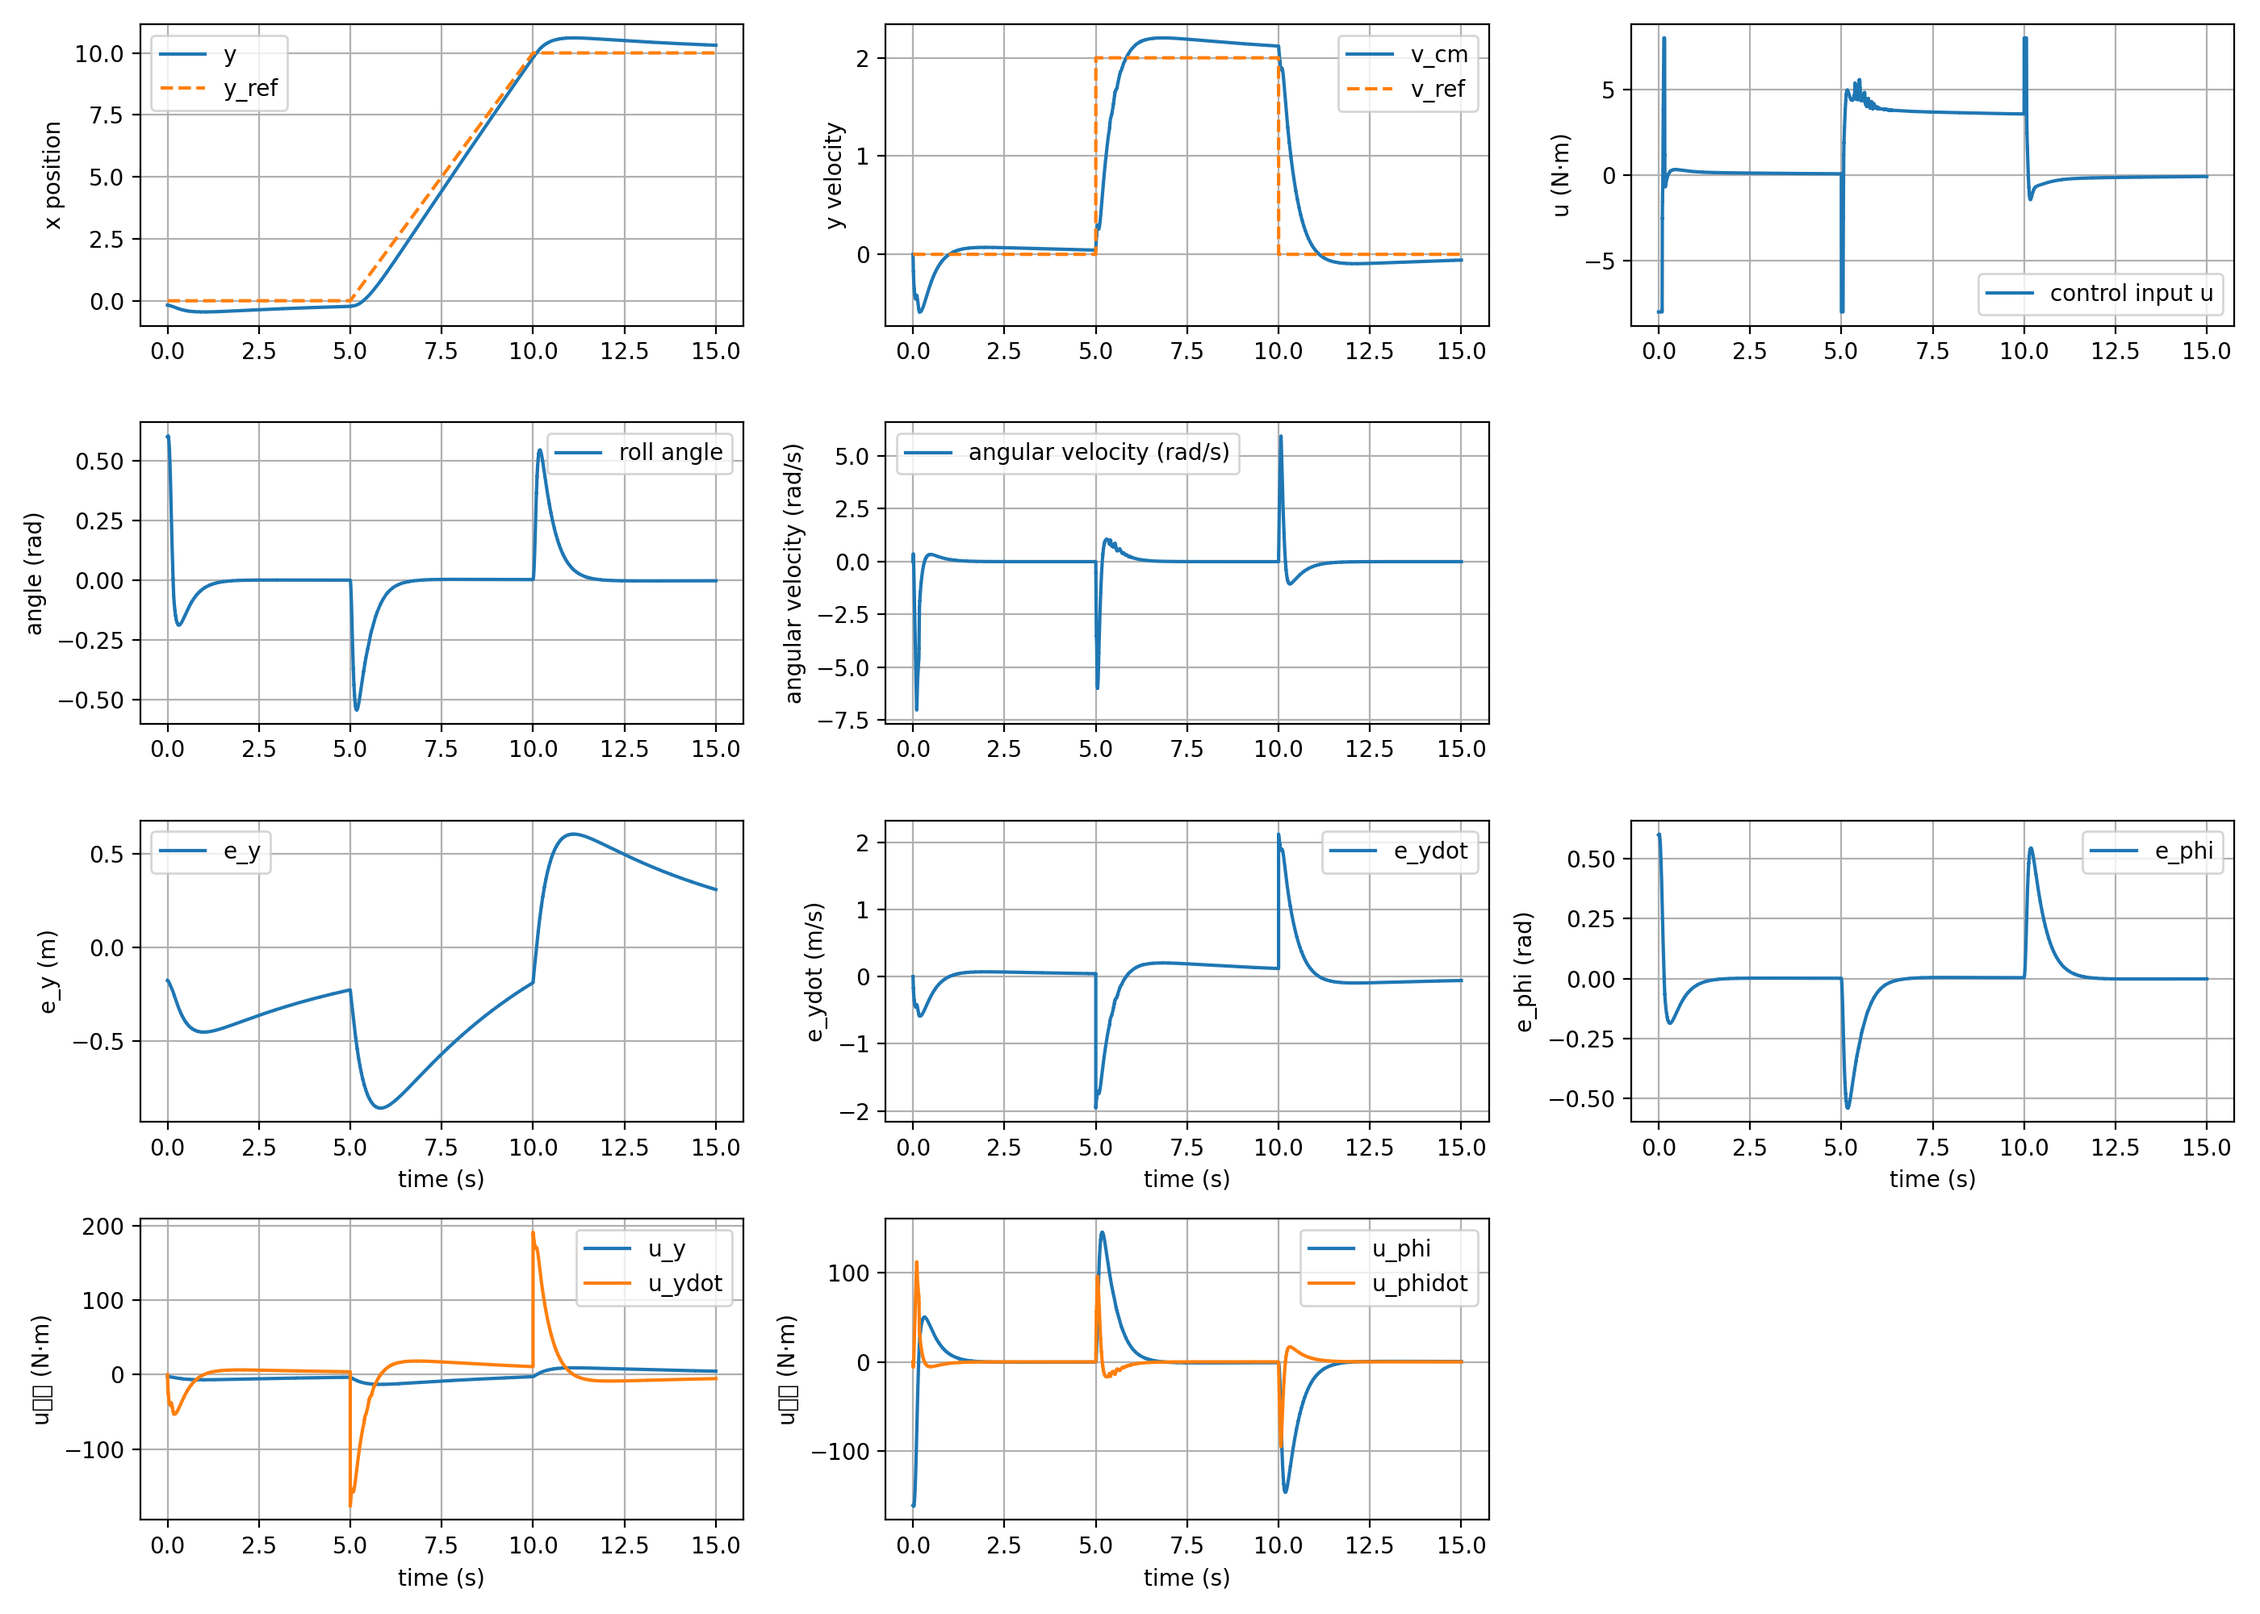
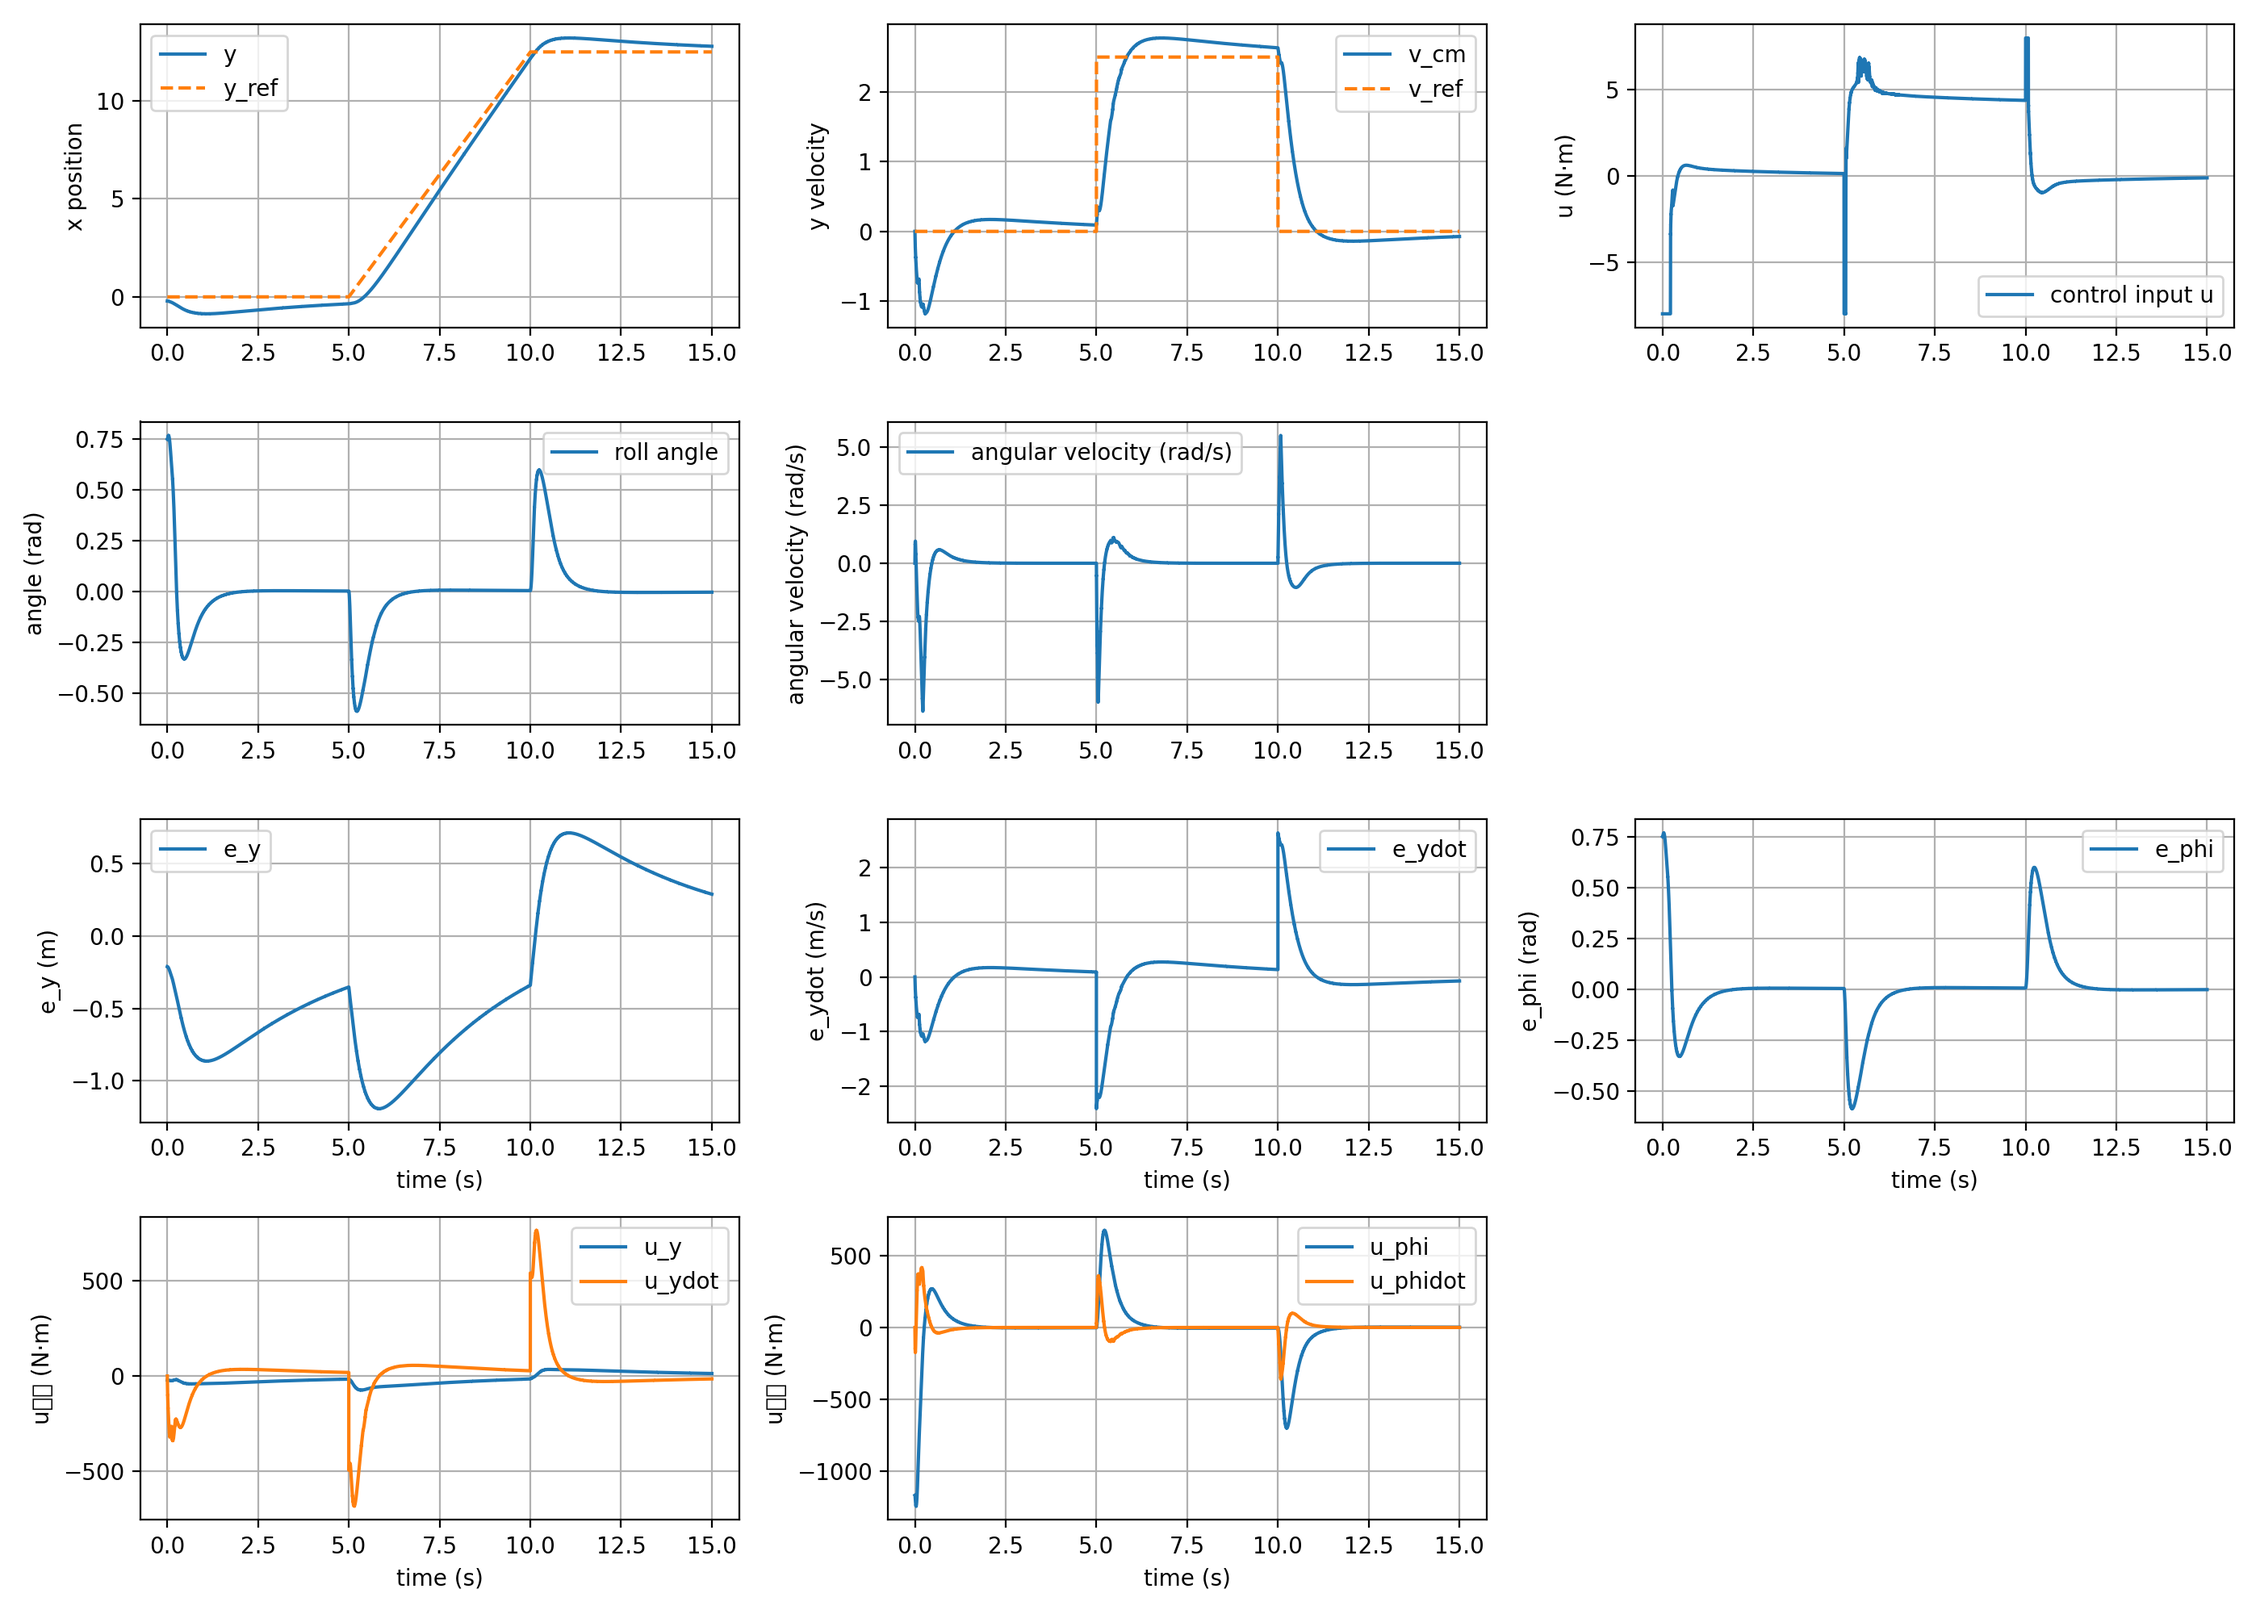
feat: 多点线性化

diff --git a/robot/lqr_roll2d.py b/robot/lqr_roll2d.py
@@ -6,8 +6,11 @@ import control  # LQR 工具
 import matplotlib  # 绘图配置
 import matplotlib.pyplot as plt  # 绘图
 from matplotlib import font_manager as fm  # 字体管理
-import scipy.linalg as la  # 线性代数
+import scipy.linalg  # 线性代数
+from scipy.interpolate import CubicSpline
 
+# 全局变量：用于存储拟合好的 LPV-LQR 插值器
+K_interpolator = None
 
 def setup_chinese_font():  # 设置中文字体
     candidates = [  # 候选字体
@@ -56,9 +59,9 @@ simend = 15.0  # 仿真总时间
 simspeed = 1.0  # 仿真速度
 settle_time = 0  # 初始稳定时间
 print_camera_config = 0  # 是否打印相机参数
-phi_init = 0.6# 初始小侧倾
+phi_init = 0.75  # 初始小侧倾
 move_start = 5.0  # 开始向 y 方向运动的时间
-vy_cmd = 2  # 目标 y 方向速度
+vy_cmd = 2.5  # 目标 y 方向速度
 vy_ramp_time = 0  # 速度爬坡时间
 move_end = 10.0  # 结束向 y 方向运动的时间 
 
@@ -238,6 +241,166 @@ def linearize_discrete_central(x_eq, u_eq, qpos_ref, qvel_ref, eps=None):
     return Ad, Bd
 
 
+def init_LPV_controller():  # 初始化控制器
+    global K_interpolator, x0, x0_joint, qpos0, qvel0, Q, R  # 使用全局变量
+    
+    while data.time < settle_time:  # 初始稳定
+        data.ctrl[aid_left] = 0.0  # 左轮无力矩
+        data.ctrl[aid_right] = 0.0  # 右轮无力矩
+        mj.mj_step(model, data)  # 仿真步进
+        
+    qpos0 = data.qpos.copy()  # 保存 qpos
+    qvel0 = data.qvel.copy()  # 保存 qvel
+    
+    x0 = get_state_from_data(data)  # 获取基准状态
+    x0[2] = 0.0  # 保证初始设定 roll 角为 0
+    
+    Q = np.diag([120000.0, 3000000.0, 120000.0, 220000.0])  # 进一步增大权重
+    R = np.diag([0.2])  # 减小R允许更大控制力
+    u0 = np.array([0.0], dtype=float)  # 平衡输入
+    
+    print("开始进行 LPV 多点线性化与插值拟合...")
+    
+    # 1. 定义 roll 角的采样网格 (例如从 -60度 到 +60度，采样 31 个点)
+    # 取决于你的需求，采样点越密拟合越好
+    roll_grid = np.linspace(-np.radians(60), np.radians(60), 31)
+    K_list = []
+    
+    for roll in roll_grid:
+        # 构造当前角度下的瞬间状态
+        x_eq = x0.copy()
+        x_eq[2] = roll  # 修改 roll 角
+        x_eq[3] = 0.0   # roll 角速度设为 0
+        
+        # 【极其重要的注意点】：
+        # 你的 linearize_discrete_central 接收 qpos0 和 qvel0。
+        # 如果你的内部函数 g_discrete 是强依赖于 x_eq 来覆盖并更新仿真状态的，那么下面这行没问题。
+        # 但如果 g_discrete 内部是从 qpos0 读取 roll 角的，你必须在这里同步修改 qpos0 里的 roll 关节值！
+        Ad, Bd = linearize_discrete_central(x_eq, u0, qpos0, qvel0)  
+        
+        try:
+            # 求解 DARE 并计算 K
+            P = scipy.linalg.solve_discrete_are(Ad, Bd, Q, R) 
+            K_i = np.linalg.inv(R + Bd.T @ P @ Bd) @ (Bd.T @ P @ Ad)
+            K_list.append(K_i[0])  # 取出一维数组 [k1, k2, k3, k4] 存入列表
+        except Exception as e:
+            print(f"在 roll = {np.degrees(roll):.2f}° 处求解失败: {e}")
+            # 容错机制：如果由于物理极限在极端角度求解失败，用上一个合法的 K 矩阵填补
+            if len(K_list) > 0:
+                K_list.append(K_list[-1])
+            else:
+                K_list.append(np.zeros(4))
+                
+    # 2. 生成三次样条插值器
+    K_array = np.array(K_list)
+    K_interpolator = CubicSpline(roll_grid, K_array)
+    
+    print("x0 =", x0)  # 输出平衡点
+    print("LPV 控制器初始化完成，K 矩阵随 roll 角变化的插值器已生成！")
+    print("K(roll = 0°) =", K_array[15])  # 输出 roll = 0° 时的 K 矩阵
+    print(K_interpolator)
+    
+    # 3. 绘制K系数关于倾角的图像
+    plot_K_vs_roll(roll_grid, K_array, K_interpolator)
+
+
+def plot_K_vs_roll(roll_grid, K_array, K_interpolator):
+    """绘制K的四个系数关于倾角的图像"""
+    # 生成更密集的插值点用于绘制平滑曲线
+    roll_fine = np.linspace(roll_grid[0], roll_grid[-1], 200)
+    K_fine = K_interpolator(roll_fine)
+    
+    # 转换为角度方便阅读
+    roll_grid_deg = np.degrees(roll_grid)
+    roll_fine_deg = np.degrees(roll_fine)
+    
+    fig, axes = plt.subplots(2, 2, figsize=(12, 8))
+    
+    labels = ['$K_y$', '$K_{\dot{y}}$', '$K_{\\phi}$', '$K_{\dot{\\phi}}$']
+    colors = ['b', 'g', 'r', 'm']
+    
+    for i, (ax, label, color) in enumerate(zip(axes.flatten(), labels, colors)):
+        # 绘制原始采样点
+        ax.plot(roll_grid_deg, K_array[:, i], 'o', markersize=4, color=color, label='采样点')
+        # 绘制三次样条插值曲线
+        ax.plot(roll_fine_deg, K_fine[:, i], '-', color=color, label='三次样条插值')
+        ax.set_xlabel('roll 角 (度)')
+        ax.set_ylabel(label)
+        ax.set_title(f'{label} vs roll 角')
+        ax.grid(True)
+        ax.legend()
+    
+    plt.suptitle('LQR 增益系数 K 随 roll 角变化曲线', fontsize=14)
+    plt.tight_layout()
+    
+    out_png = os.path.join(os.path.dirname(__file__), "lqr_K_vs_roll.png")
+    plt.savefig(out_png, dpi=200)
+    plt.close(fig)
+    print(f"K系数图像已保存到: {out_png}")
+
+def LPV_controller(model_in, data_in):  # 控制回调
+    global K_interpolator, x0  # 确保能访问到插值器和初始状态
+    
+    x = get_state_from_data(data_in)  # 读取状态
+    
+    # --- 生成参考轨迹 ---
+    if data_in.time < move_start:  # 先平衡
+        y_ref = x0[0]  # y 参考（保持初始）
+        ydot_ref = 0.0  # y 速度参考
+    elif data_in.time <= move_end:  # 再向 y 方向匀速运动
+        t_run = data_in.time - move_start  # 运动阶段时间
+        y_ref = x0[0] + vy_cmd * t_run  # 位置参考
+        ydot_ref = vy_cmd  # 速度参考
+    else:
+        y_ref = x0[0] + vy_cmd * (move_end - move_start)  # y 参考
+        ydot_ref = 0.0  # y 速度参考
+        
+    roll_ref = 0.0  # roll 参考（直立）
+    roll_dot_ref = 0.0  # roll 角速度参考
+    x_ref = np.array([y_ref, ydot_ref, roll_ref, roll_dot_ref], dtype=float)  # 参考状态
+    e = x - x_ref  # 跟踪误差
+    
+    # --- 核心修改：LPV 实时查表计算 K ---
+    current_roll = x[2]  # 获取当前的真实 roll 角
+    
+    # 【安全限幅】：极其重要！
+    # 防止系统受干扰 roll 角超过 40 度时，三次样条发生不可控的向外推断 (Extrapolation)
+    roll_clip = np.clip(current_roll, -np.radians(58), np.radians(58))
+    
+    # 瞬间查询插值器，得到当前姿态最完美的反馈增益
+    K_current = K_interpolator(roll_clip)
+    print("K_current =", K_current)
+    # print("e =", e)
+    
+    # LQR 控制
+    u = -K_current @ e  
+    
+    # 力矩限幅
+    u = np.clip(u, -16.0, 16.0) 
+    # print("u =", u)
+    
+    data_in.ctrl[aid_left] = 0.5 * u  # 左轮力矩
+    data_in.ctrl[aid_right] = 0.5 * u  # 右轮力矩
+
+    t_log.append(data_in.time)  # 记录时间
+    x_log.append(x[0])  # 记录状态
+    v_log.append(x[1])  # 记录速度（车身质心）
+    v_wheel_log.append(data_in.qvel[adr_qvel_y])  # 记录速度（轮子接触点）
+    phi_log.append(x[2])  # 记录 roll
+    w_log.append(x[3])  # 记录 roll 角速度
+    u_log.append(0.5 * u)  # 记录控制量
+    y_ref_log.append(y_ref)  # 记录y参考
+    ydot_ref_log.append(ydot_ref)  # 记录y速度参考
+    e_y_log.append(e[0])  # 记录y误差
+    e_ydot_log.append(e[1])  # 记录y_dot误差
+    e_phi_log.append(e[2])  # 记录phi误差
+    e_phidot_log.append(e[3])  # 记录phi_dot误差
+    u_y_log.append(-K_current[0] * e[0])  # u由y误差产生的分量
+    u_ydot_log.append(-K_current[1] * e[1])  # u由y_dot误差产生的分量
+    u_phi_log.append(-K_current[2] * e[2])  # u由phi误差产生的分量
+    u_phidot_log.append(-K_current[3] * e[3])  # u由phi_dot误差产生的分量
+
+
 def init_controller():  # 初始化控制器
     global K, x0, x0_joint, qpos0, qvel0, Q, R  # 使用全局变量
     while data.time < settle_time:  # 初始稳定
@@ -256,7 +419,7 @@ def init_controller():  # 初始化控制器
     R = np.diag([15])  # 适中的R
     # K, S, E = control.dlqr(Ad, Bd, Q, R)  # 离散 LQR
     # 改用 scipy 的底层求解器:
-    P = la.solve_discrete_are(Ad, Bd, Q, R) 
+    P = scipy.linalg.solve_discrete_are(Ad, Bd, Q, R) 
     # 根据 DARE 结果手动计算 K 矩阵: 
     K = np.linalg.inv(R + Bd.T @ P @ Bd) @ (Bd.T @ P @ Ad)  # 计算 LQR 增益
     print("x0 =", x0)  # 输出平衡点
@@ -281,6 +444,8 @@ def controller(model_in, data_in):  # 控制回调
     e = x - x_ref  # 跟踪误差
     u = -K @ e  # LQR 控制
     u = np.clip(u, -16.0, 16.0)  # 力矩限幅
+    # print("K =", K)
+    # print("e =", e)
     data_in.ctrl[aid_left] = 0.5 * u[0]  # 左轮力矩
     data_in.ctrl[aid_right] = 0.5 * u[0]  # 右轮力矩
     t_log.append(data_in.time)  # 记录时间
@@ -376,10 +541,10 @@ def main():  # 主函数
     glfw.set_cursor_pos_callback(window, mouse_move)  # 鼠标移动回调
     glfw.set_mouse_button_callback(window, mouse_button)  # 鼠标按键回调
     glfw.set_scroll_callback(window, scroll)  # 滚轮回调
-    init_controller()  # 初始化控制器
+    init_LPV_controller()  # 初始化控制器
     data.qpos[adr_qpos_roll] = data.qpos[adr_qpos_roll] + phi_init  # 初始侧倾
     mj.mj_forward(model, data)  # 前向更新
-    mj.set_mjcb_control(controller)  # 设置控制回调
+    mj.set_mjcb_control(LPV_controller)  # 设置控制回调
 
     real_time_start = glfw.get_time()
     sim_time_start = data.time
